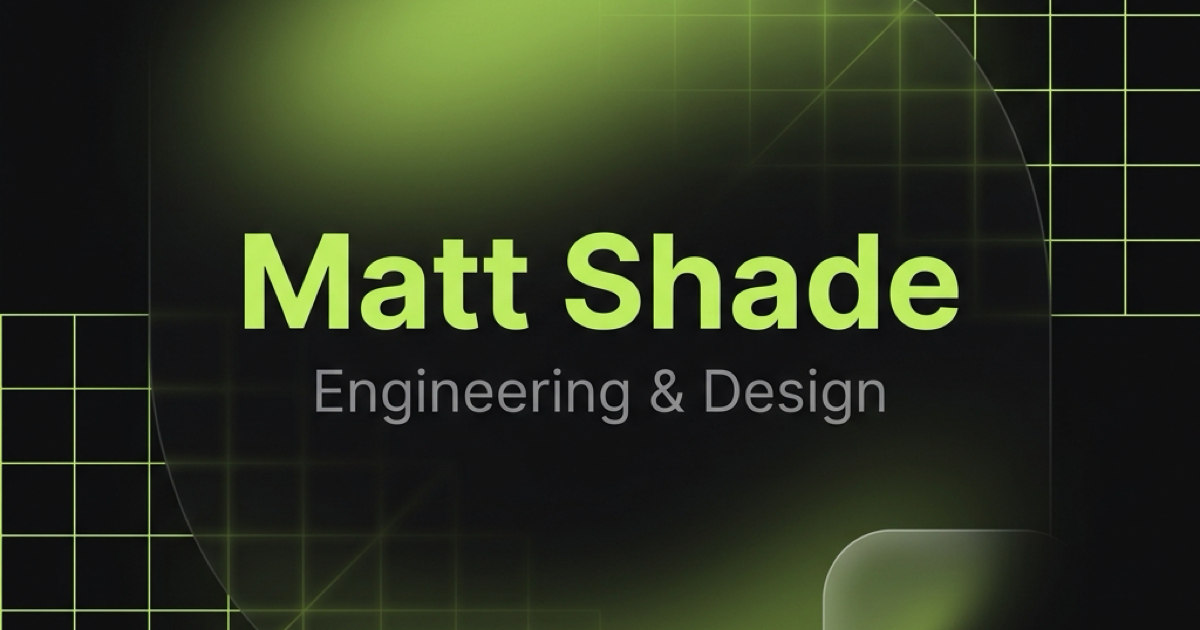
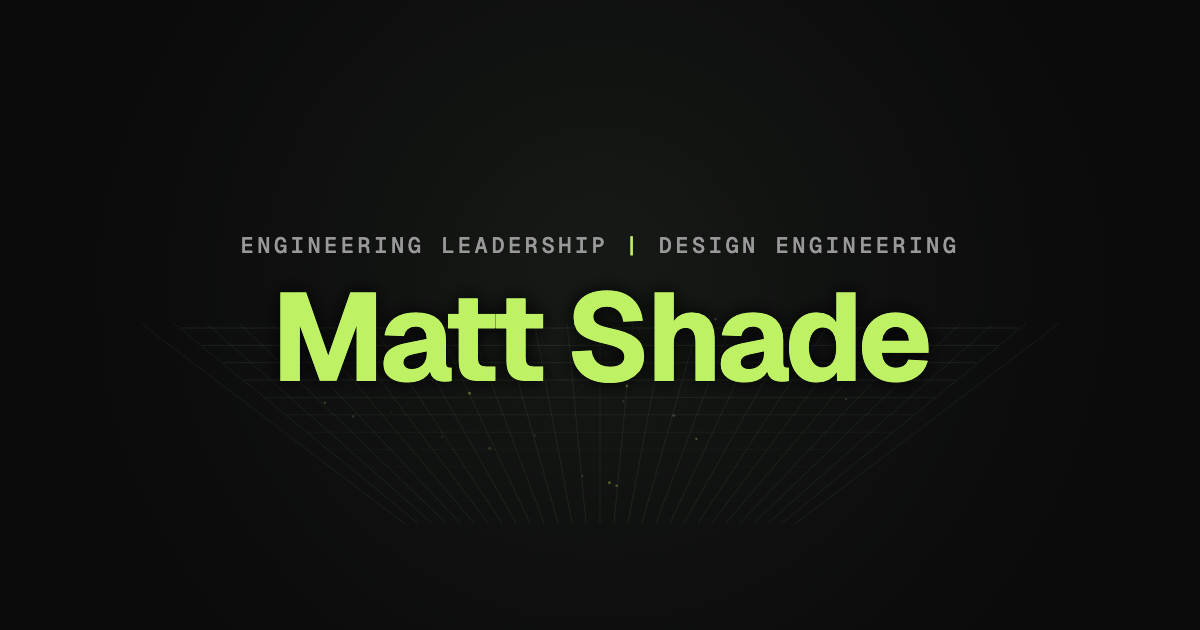
Update OG image for aviary brand and thumbnail readability.
Replace the social preview with hero eyebrow and name over a subtle grid, add a Playwright generator script, and refresh alt text.

diff --git a/scripts/og-image.template.html b/scripts/og-image.template.html
@@ -1,0 +1,151 @@
+<!DOCTYPE html>
+<html lang="en">
+<head>
+  <meta charset="UTF-8" />
+  <link rel="preconnect" href="https://fonts.googleapis.com" />
+  <link rel="preconnect" href="https://fonts.gstatic.com" crossorigin />
+  <link href="https://fonts.googleapis.com/css2?family=Geist+Mono:wght@400;500&family=Geist:wght@400;700&display=swap" rel="stylesheet" />
+  <style>
+    * { margin: 0; padding: 0; box-sizing: border-box; }
+    body { position: relative; width: __W__px; height: __H__px; overflow: hidden; background: #0a0a0b; }
+    canvas { display: block; width: __W__px; height: __H__px; }
+    .overlay {
+      position: absolute; inset: 0; display: flex; align-items: center; justify-content: center;
+      pointer-events: none;
+    }
+    .copy {
+      position: relative;
+      text-align: center;
+      padding: 0 2.5rem;
+    }
+    .copy::before {
+      content: '';
+      position: absolute;
+      inset: -3.5rem -7rem;
+      z-index: -1;
+      pointer-events: none;
+      background: radial-gradient(
+        ellipse 78% 68% at 50% 48%,
+        rgba(10, 10, 11, 0.68) 0%,
+        rgba(10, 10, 11, 0.3) 45%,
+        transparent 72%
+      );
+    }
+    .eyebrow {
+      font-family: 'Geist Mono', ui-monospace, monospace;
+      font-size: 22px;
+      font-weight: 500;
+      text-transform: uppercase;
+      letter-spacing: 0.16em;
+      margin-bottom: 1.1rem;
+    }
+    .eyebrow .seg { color: #999999; }
+    .eyebrow .pipe { color: #bef264; }
+    h1 {
+      font-family: Geist, system-ui, sans-serif;
+      font-size: 7.75rem;
+      font-weight: 700;
+      letter-spacing: -0.035em;
+      color: #bef264;
+      line-height: 0.98;
+      text-shadow: 2px 0 18px rgba(0, 0, 0, 0.55), -2px 0 18px rgba(0, 0, 0, 0.55);
+    }
+  </style>
+</head>
+<body>
+  <canvas id="c" width="__W__" height="__H__"></canvas>
+  <div class="overlay">
+    <div class="copy">
+      <p class="eyebrow">
+        <span class="seg">Engineering Leadership</span><span class="pipe"> | </span><span class="seg">Design Engineering</span>
+      </p>
+      <h1>Matt Shade</h1>
+    </div>
+  </div>
+  <script>
+    const W = __W__, H = __H__;
+    const canvas = document.getElementById('c');
+    const ctx = canvas.getContext('2d');
+
+    let seed = 0x41766972 >>> 0;
+    function rng() {
+      seed = (seed * 1664525 + 1013904223) >>> 0;
+      return seed / 0x100000000;
+    }
+
+    const BG = '#0a0a0b';
+    const LINE = '#5f7a58';
+    const LINE_BRIGHT = '#7a9a6e';
+    const LINE_DIM = '#3d4f3a';
+    const LIME = '#bef264';
+
+    function lerp(a, b, t) { return a + (b - a) * t; }
+
+    const VX = W * 0.5;
+    const VY = H * 0.5;
+    const GROUND = H * 0.92;
+
+    function toScreen(x, d, lift) {
+      const depth = 0.18 + d * 0.82;
+      return {
+        x: VX + x * (155 + d * 240),
+        y: VY + (1 - depth) * (GROUND - VY) - (lift || 0) * depth * 135,
+        depth: depth,
+      };
+    }
+
+    function drawLine(ax, ad, alift, bx, bd, blift, alpha, width) {
+      const a = toScreen(ax, ad, alift);
+      const b = toScreen(bx, bd, blift);
+      const t = (a.depth + b.depth) * 0.5;
+      ctx.globalAlpha = alpha * lerp(0.5, 1, t);
+      ctx.lineWidth = width * lerp(0.65, 1.55, t);
+      ctx.strokeStyle = t > 0.5 ? LINE : LINE_DIM;
+      if (t > 0.72) ctx.strokeStyle = LINE_BRIGHT;
+      ctx.beginPath();
+      ctx.moveTo(a.x, a.y);
+      ctx.lineTo(b.x, b.y);
+      ctx.stroke();
+    }
+
+    ctx.fillStyle = BG;
+    ctx.fillRect(0, 0, W, H);
+
+    const grad = ctx.createRadialGradient(W * 0.5, H * 0.42, 30, W * 0.5, H * 0.45, W * 0.62);
+    grad.addColorStop(0, 'rgba(122, 154, 110, 0.1)');
+    grad.addColorStop(0.5, 'rgba(122, 154, 110, 0.03)');
+    grad.addColorStop(1, 'transparent');
+    ctx.fillStyle = grad;
+    ctx.fillRect(0, 0, W, H);
+
+    ctx.lineCap = 'round';
+    ctx.lineJoin = 'round';
+
+    for (let i = -14; i <= 14; i++) {
+      const x = i * 0.085;
+      drawLine(x, 0.04, 0, x, 0.96, 0, 0.28, 0.65);
+    }
+    for (let j = 0; j < 12; j++) {
+      const d = 0.06 + j * 0.08;
+      drawLine(-1.1, d, 0, 1.1, d, 0, 0.24, 0.55);
+    }
+
+    for (let p = 0; p < 24; p++) {
+      const pt = toScreen((rng() - 0.5) * 2.1, 0.12 + rng() * 0.82, 0.1 + rng() * 0.5);
+      ctx.globalAlpha = 0.12 + rng() * 0.28;
+      ctx.fillStyle = rng() > 0.55 ? LIME : LINE_BRIGHT;
+      ctx.beginPath();
+      ctx.arc(pt.x, pt.y, 0.5 + rng() * 1.1, 0, Math.PI * 2);
+      ctx.fill();
+    }
+
+    const vig = ctx.createRadialGradient(W/2, H/2, H*0.15, W/2, H/2, H*0.88);
+    vig.addColorStop(0, 'transparent');
+    vig.addColorStop(0.5, 'rgba(10, 10, 11, 0.08)');
+    vig.addColorStop(1, 'rgba(10, 10, 11, 0.45)');
+    ctx.fillStyle = vig;
+    ctx.globalAlpha = 1;
+    ctx.fillRect(0, 0, W, H);
+  </script>
+</body>
+</html>

diff --git a/index.html b/index.html
@@ -17,7 +17,7 @@
     <meta property="og:image" content="__SITE_URL__/og-image.png" />
     <meta property="og:image:width" content="1200" />
     <meta property="og:image:height" content="630" />
-    <meta property="og:image:alt" content="Matt Shade — Engineering & Design" />
+    <meta property="og:image:alt" content="Matt Shade — Engineering Leadership and Design Engineering. Origami wireframe forest." />
     <meta property="og:url" content="__SITE_URL__/" />
     <meta property="og:site_name" content="Matt Shade" />
     <meta property="og:locale" content="en_US" />
@@ -27,7 +27,7 @@
     <meta name="twitter:title" content="Matt Shade — Engineering &amp; Design" />
     <meta name="twitter:description" content="Creating and leading teams that craft AI-powered tools and interfaces to turn data into clarity and action." />
     <meta name="twitter:image" content="__SITE_URL__/og-image.png" />
-    <meta name="twitter:image:alt" content="Matt Shade — Engineering & Design" />
+    <meta name="twitter:image:alt" content="Matt Shade — Engineering Leadership and Design Engineering. Origami wireframe forest." />
     <link rel="preconnect" href="https://fonts.googleapis.com" />
     <link rel="preconnect" href="https://fonts.gstatic.com" crossorigin />
     <link href="https://fonts.googleapis.com/css2?family=Geist+Mono:wght@400;500;600&family=Geist:wght@400;500;600;700&family=Source+Serif+4:opsz,wght@8..60,400;8..60,500&display=swap" rel="stylesheet" />

diff --git a/scripts/generate-og-image.ts b/scripts/generate-og-image.ts
@@ -1,0 +1,37 @@
+/**
+ * Renders public/og-image.png (1200×630) — wireframe origami forest + hero copy.
+ * Run: npm run generate:og-image
+ */
+import { readFileSync, writeFileSync } from 'node:fs'
+import path from 'node:path'
+import { fileURLToPath } from 'node:url'
+import { chromium } from 'playwright'
+
+const __dirname = path.dirname(fileURLToPath(import.meta.url))
+const root = path.resolve(__dirname, '..')
+const outPath = path.join(root, 'public', 'og-image.png')
+const templatePath = path.join(__dirname, 'og-image.template.html')
+
+const W = 1200
+const H = 630
+
+function buildHtml() {
+  const template = readFileSync(templatePath, 'utf8')
+  return template.replaceAll('__W__', String(W)).replaceAll('__H__', String(H))
+}
+
+async function main() {
+  const browser = await chromium.launch()
+  const page = await browser.newPage({ viewport: { width: W, height: H } })
+  await page.setContent(buildHtml(), { waitUntil: 'networkidle' })
+  await page.waitForTimeout(400)
+  const buf = await page.screenshot({ type: 'png', omitBackground: false })
+  await browser.close()
+  writeFileSync(outPath, buf)
+  console.log(`Wrote ${path.relative(root, outPath)} (${W}×${H})`)
+}
+
+main().catch((e) => {
+  console.error(e)
+  process.exit(1)
+})
